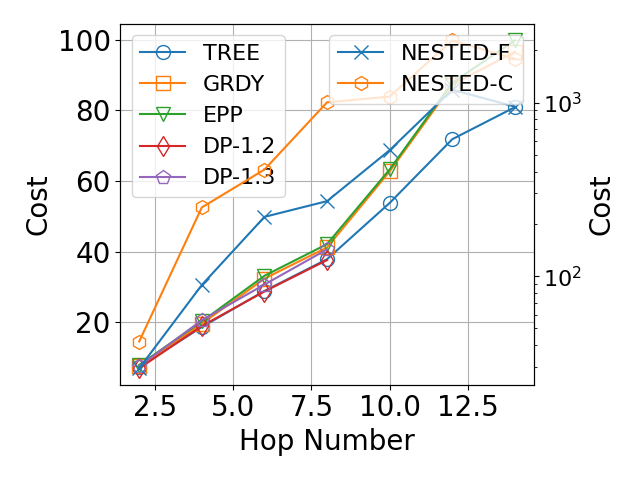
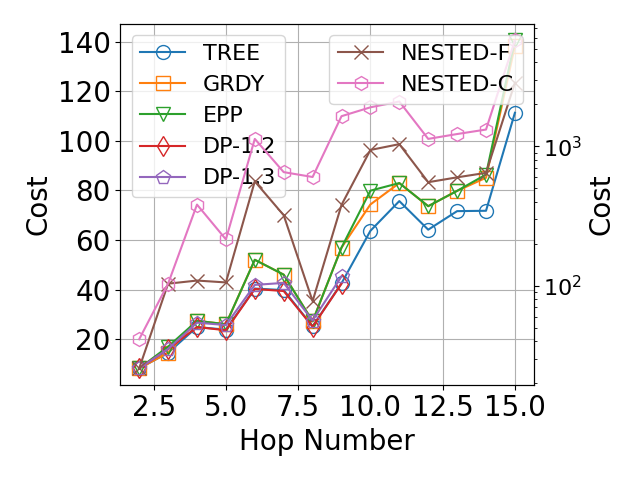
draw

diff --git a/src/utils/tools.py b/src/utils/tools.py
@@ -60,6 +60,7 @@ def draw_2y_lines(
     x, ys1, ys2,
     xlabel, y1_label, y2_label,
     line1_labels, line2_labels,
+    line1_colors, line2_colors,
     line1_markers, line2_markers,
     xscale='linear', y1_scale='linear', y2_scale='linear',
     xreverse=False, y1_reverse=False, y2_reverse=False,
@@ -75,24 +76,32 @@ def draw_2y_lines(
 
     ax2 = ax1.twinx()
 
-    for y1, label, marker in zip(ys1, line1_labels, line1_markers):
+    for y1, label, color, marker in zip(ys1, line1_labels, line1_colors, line1_markers):
         # find first y > ylim[1]
         if y1_lim is not None:
             idx = np.where(y1 > y1_lim[1])[0]
             if len(idx) > 0:
                 y1 = y1[:idx[0]]
                 x = x[:idx[0]]
-        ax1.plot(x, y1, label=label, marker=marker, markerfacecolor='none', markersize=10)
+        ax1.plot(
+            x, y1, 
+            label=label, color=color, marker=marker, 
+            markerfacecolor='none', markersize=10
+            )
     
-    for y2, label, marker in zip(ys2, line2_labels, line2_markers):
+    for y2, label, color, marker in zip(ys2, line2_labels, line2_colors, line2_markers):
         # find first y > ylim[1]
         if y2_lim is not None:
             idx = np.where(y2 > y2_lim[1])[0]
             if len(idx) > 0:
                 y2 = y2[:idx[0]]
                 x = x[:idx[0]]
-        ax2.plot(x, y2, label=label, marker=marker, markerfacecolor='none', markersize=10)
-    
+        ax2.plot(x, y2, 
+            label=label, color=color, marker=marker, 
+            markerfacecolor='none', markersize=10
+            )
+    # force x ticks to be integers and multiples of 5
+    ax1.xaxis.set_major_locator(plt.MultipleLocator(5))
     ax1.set_xlabel(xlabel, fontsize=20)
     ax1.set_ylabel(y1_label, fontsize=20)
     ax2.set_ylabel(y2_label, fontsize=20)

diff --git a/src/eval_path_infocom.py b/src/eval_path_infocom.py
@@ -269,7 +269,7 @@ def test_binary_cost_all(fth, exp_num, gate=qu.GDP):
         gate_desc = "L"
 
     cost_cap = 1e5
-    edge_num_range = range(2, 26, 1)
+    edge_num_range = range(2, 16, 1)
     # edge_num_range = range(4, 11, 2)
 
     dp_edge_limit = 6
@@ -372,6 +372,8 @@ def test_binary_cost_all(fth, exp_num, gate=qu.GDP):
     xlabel = "Hop Number"
     ylabel = "Cost"
     markers = ['o', 's', 'v', 'd', 'p', 'x', 'h', '>', '<']
+    # default color cycle
+    colors = plt.rcParams['axes.prop_cycle'].by_key()['color']
     filename = "data/path/dp_path_cost_f={}_noise={}.png".format(fth, gate_desc)
     draw_lines(x, ys, xlabel, ylabel, labels, markers, filename=filename, yscale='log')
 
@@ -381,6 +383,7 @@ def test_binary_cost_all(fth, exp_num, gate=qu.GDP):
     draw_2y_lines(x, ys1, ys2, xlabel, 
         y1_label=ylabel, y2_label=ylabel,
         line1_labels=labels[:5], line2_labels=labels[5:],
+        line1_colors=colors[:5], line2_colors=colors[5:],
         line1_markers=markers[:5], line2_markers=markers[5:],
         xscale='linear', y1_scale='linear', y2_scale='log',
         xreverse=False, y1_reverse=False, y2_reverse=False,
@@ -1166,6 +1169,7 @@ def test_wn_others(fth, exp_num):
                 
 
 if __name__ == '__main__':
+    exp_num = 1
     # test_dp_sys(0.8, 10)
 
     # test_binary_all_time(0.9, 10)
@@ -1176,9 +1180,9 @@ if __name__ == '__main__':
     # test_binary_cost_1(0.99, 20)
     # test_binary_cost_1(0.9999, 20)
 
-    test_binary_cost_all(0.9, 10)
-    test_binary_cost_all(0.99, 10)
-    test_binary_cost_all(0.9999, 10)
+    test_binary_cost_all(0.9, exp_num)
+    test_binary_cost_all(0.99, exp_num)
+    test_binary_cost_all(0.9999, exp_num)
 
 
     # test_wn_sys_full(0.8, 10)
